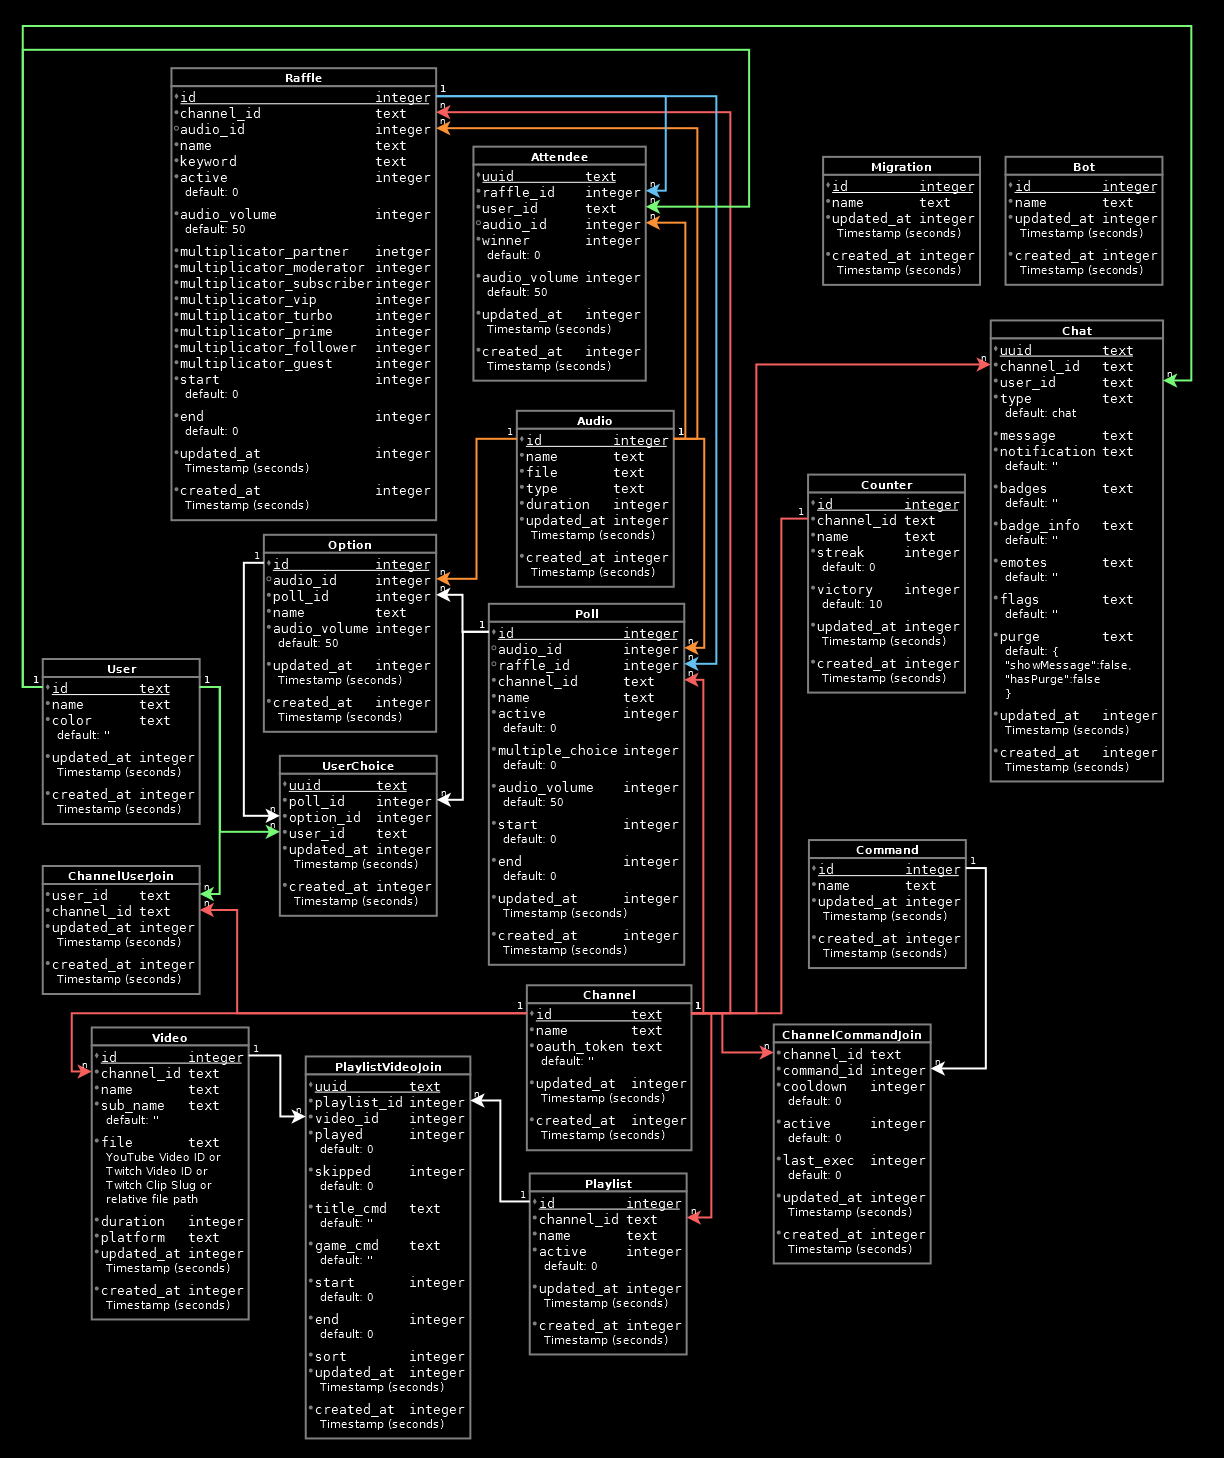
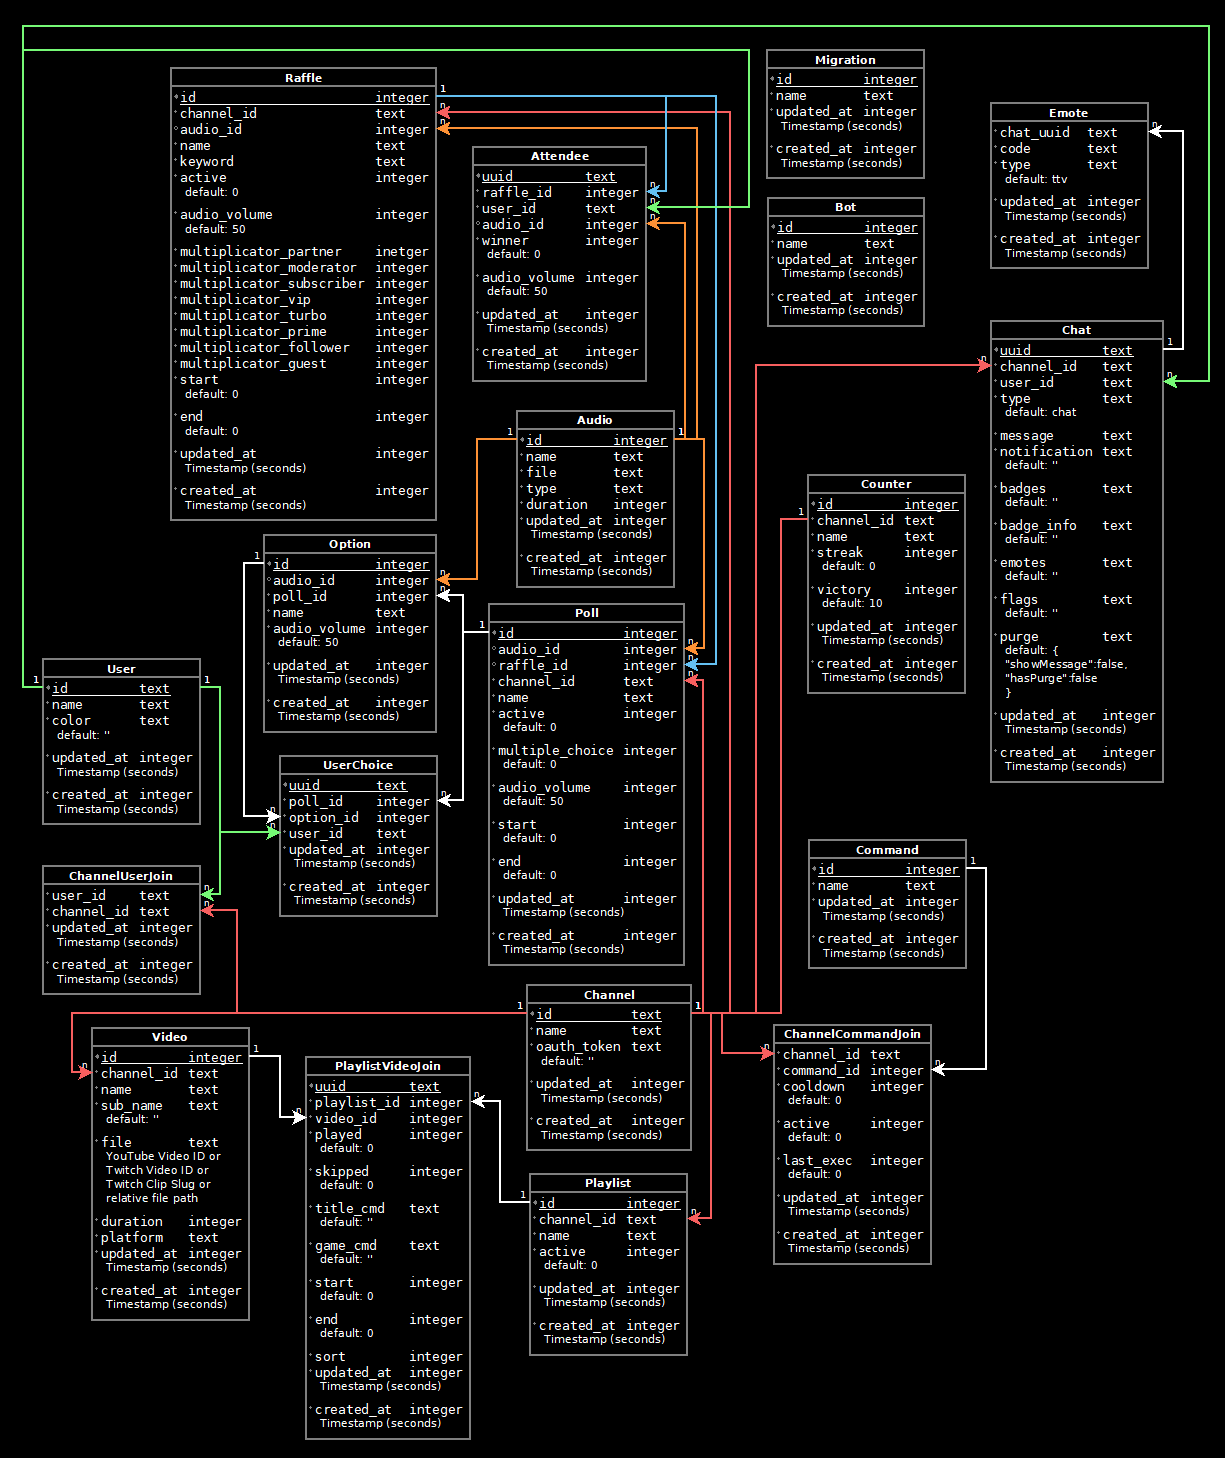
Added emote.js
Changed encodeBttvEmotes() in chatbot/chat.js
Changed encodeFfzEmotes() in chatbot/chat.js
Changed encodeTwitchEmotes() in chatbot/chat.js
Changed generateEmoteImage() in chatbot/chat.js
Changed data/chatbot.dist.sqlite3
Changed screenshots/data-model.dia
Changed screenshots/data-model.png
Changed prop drop in partial/langswitch.vue
Changed @babel/core 7.11.1 to 7.11.4
Changed i18next 19.6.3 to 19.7.0
Changed vanilla-lazyload 17.1.0 to 17.1.2
Changed vue 2.6.11 to 2.6.12

Fixed database-command-relation in chatbot/locales.js

Changed region(s): [[0.0, 0.0, 1.0, 1.0]]

diff --git a/src/js/chatbot/chat.js b/src/js/chatbot/chat.js
@@ -1,37 +1,66 @@
-const database     = require('./database');
-const linkify      = require('linkifyjs');
-const linkifyHtml  = require('linkifyjs/html');
-const moment       = require('moment');
-const request      = require('request');
-const {v4: uuidv4} = require('uuid');
-
-database.open();
+const database    = require('./database');
+const emote       = require('./emote');
+const linkify     = require('linkifyjs');
+const linkifyHtml = require('linkifyjs/html');
+const moment      = require('moment');
+const request     = require('request');
+const {v4: uuidv4, validate: uuidValid} = require('uuid');
 
 const chat = {
     bttvEmotes: {},
     ffzEmotes: {},
-    encodeBttvEmotes: function(message, channel) {
-        let emoteCodes = Object.keys(chat.bttvEmotes[channel]);
+    encodeBttvEmotes: function(message, args) {
+        let emoteCodes = Object.keys(chat.bttvEmotes[args.channel]);
         for (let i = 0; i < emoteCodes.length; i++) {
             let regex = new RegExp(emoteCodes[i], 'g');
-            message = message.replace(regex, chat.generateEmoteImage(chat.bttvEmotes[channel][emoteCodes[i]], emoteCodes[i]));
+
+            if (regex.test(message)) {
+                if (typeof args.uuid === 'string' && uuidValid(args.uuid)) {
+                    for (let j = 0; j < (message.match(regex) || []).length; j++) {
+                        let emoteArgs = {
+                            uuid: args.uuid,
+                            code: emoteCodes[i],
+                            type: 'bttv'
+                        };
+
+                        emote.addEmote(emoteArgs);
+                    }
+                }
+
+                message = message.replace(regex, chat.generateEmoteImage(chat.bttvEmotes[args.channel][emoteCodes[i]], emoteCodes[i]));
+            }
         }
         return message;
     },
-    encodeFfzEmotes: function(message, channel) {
-        let emoteCodes = Object.keys(chat.ffzEmotes[channel]);
+    encodeFfzEmotes: function(message, args) {
+        let emoteCodes = Object.keys(chat.ffzEmotes[args.channel]);
         for (let i = 0; i < emoteCodes.length; i++) {
             let regex = new RegExp(emoteCodes[i], 'g');
-            message = message.replace(regex, chat.generateEmoteImage(chat.ffzEmotes[channel][emoteCodes[i]], emoteCodes[i]));
+
+            if (regex.test(message)) {
+                if (typeof args.uuid === 'string' && uuidValid(args.uuid)) {
+                    for (let j = 0; j < (message.match(regex) || []).length; j++) {
+                        let emoteArgs = {
+                            uuid: args.uuid,
+                            code: emoteCodes[i],
+                            type: 'ffz'
+                        };
+
+                        emote.addEmote(emoteArgs);
+                    }
+                }
+
+                message = message.replace(regex, chat.generateEmoteImage(chat.ffzEmotes[args.channel][emoteCodes[i]], emoteCodes[i]));
+            }
         }
         return message;
     },
-    encodeTwitchEmotes: function(message, emotes) {
+    encodeTwitchEmotes: function(message, args) {
         let splitText = message.split('');
 
-        for (let i in emotes) {
-            if (Object.prototype.hasOwnProperty.call(emotes, i)) {
-                let emoteCodes = emotes[i];
+        for (let i in args.emotes ){
+            if (Object.prototype.hasOwnProperty.call(args.emotes, i)) {
+                let emoteCodes = args.emotes[i];
 
                 for (let j in emoteCodes) {
                     if (Object.prototype.hasOwnProperty.call(emoteCodes, j)) {
@@ -44,9 +73,19 @@ const chat = {
                             let empty = Array.apply(null, new Array(length + 1)).map(function() {
                                 return '';
                             });
-                            let emote = message.slice(emoteCode[0], emoteCode[1] + 1);
+                            let ttvEmote = message.slice(emoteCode[0], emoteCode[1] + 1);
                             splitText = splitText.slice(0, emoteCode[0]).concat(empty).concat(splitText.slice(emoteCode[1] + 1, splitText.length));
-                            splitText.splice(emoteCode[0], 1, chat.generateEmoteImage('http://static-cdn.jtvnw.net/emoticons/v1/' + i + '/1.0', emote));
+                            splitText.splice(emoteCode[0], 1, chat.generateEmoteImage('http://static-cdn.jtvnw.net/emoticons/v1/' + i + '/1.0', ttvEmote));
+                            
+                            if (typeof args.uuid === 'string' && uuidValid(args.uuid)) {
+                                let emoteArgs = {
+                                    uuid: args.uuid,
+                                    code: ttvEmote,
+                                    type: 'ttv'
+                                };
+
+                                emote.addEmote(emoteArgs);
+                            }
                         }
                     }
                 }
@@ -96,17 +135,17 @@ const chat = {
     },
     formatMessage: function(args) {
         let message = args.message;
-        message = chat.encodeTwitchEmotes(message, args.emotes);
-        message = chat.encodeBttvEmotes(message, args.channel);
-        message = chat.encodeFfzEmotes(message, args.channel);
+        message = chat.encodeTwitchEmotes(message, args);
+        message = chat.encodeBttvEmotes(message, args);
+        message = chat.encodeFfzEmotes(message, args);
         message = linkifyHtml(message, {
             defaultProtocol: 'https'
         });
 
         return message;
     },
-    generateEmoteImage: function(url, emote) {
-        return '<img class="emote lazy img-fluid" src="img/empty-emote.png" data-src="' + url + '"  data-toggle="tooltip" data-placement="top" title="' + emote + '">';
+    generateEmoteImage: function(url, title) {
+        return '<img class="emote lazy img-fluid" src="img/empty-emote.png" data-src="' + url + '"  data-toggle="tooltip" data-placement="top" title="' + title + '">';
     },
     getMessage: function(chatbot, args) {
         chat.prepareMessages(chatbot, args, true);
@@ -118,13 +157,14 @@ const chat = {
         };
 
         let formatMessage = {
+            uuid: typeof args.userstate.id === 'undefined' ? uuidv4() : args.userstate.id,
             channel: args.channel,
             emotes: args.userstate.emotes,
             message: args.message
         };
 
         let values = {
-            uuid: typeof args.userstate.id === 'undefined' ? uuidv4() : args.userstate.id,
+            uuid: formatMessage.uuid,
             badges: chat.formatBadges(chatbot, formatBadges),
             badgeInfo: formatBadges.badgeInfo === null || typeof formatBadges.badgeInfo === 'undefined' ? '' : formatBadges.badgeInfo,
             roomId: typeof args.userstate['room-id'] === 'undefined' ? '' : args.userstate['room-id'],

diff --git a/src/js/chatbot/locales.js b/src/js/chatbot/locales.js
@@ -24,7 +24,7 @@ const en = {
     'database-bot': '* Added "{{0}}" bot from BTTV to database',
     'database-channel': '* Added channel "{{0}}" to database',
     'database-command': '* Added {{0}} commands to database',
-    'database-command-relation': '* Added {{0}} command relations for "{{1}}" to database',
+    'database-command-relation': '* Added {{0}} commands relations for "{{1}}" to database',
     'database-counter': '* Added counter "General" for "{{0}}" to database',
     'database-playlist': '* Added playlist "General" for "{{0}}" to database',
     'down': 'Down',
@@ -117,7 +117,7 @@ const de = {
     'database-bot': '* Bot "{{0}}" von BTTV wurde zur Datenbank hinzugefügt',
     'database-channel': '* Kanal "{{0}}" wurde zur Datenbank hinzugefügt',
     'database-command': '* Befehl {{0}} wurde zur Datenbank hinzugefügt',
-    'database-command-relation': '* Befehls-Beziehung {{0}} für "{{1}}" wurde zur Datenbank hinzugefügt',
+    'database-command-relation': '* {{0}} Befehls-Beziehungen für "{{1}}" wurde zur Datenbank hinzugefügt',
     'database-counter': '* Zähler "General" für "{{0}}" wurde zur Datenbank hinzugefügt',
     'database-playlist': '* Playlist "General" für "{{0}}" wurde zur Datenbank hinzugefügt',
     'down': 'Unten',

diff --git a/src/js/chatbot/emote.js b/src/js/chatbot/emote.js
@@ -1,0 +1,19 @@
+const database = require('./database');
+const moment   = require('moment');
+
+const emote = {
+    addEmote: function(args) {
+        let time = moment().unix();
+        let values = {
+            chatUuid: args.uuid,
+            code: args.code,
+            type: args.type === null || typeof args.type === 'undefined' ? 'ttv' : args.type,
+            updatedAt: time,
+            createdAt: time
+        };
+
+        database.insert('emote', [values]);
+    }
+};
+
+module.exports = emote;

diff --git a/src/js/vue/component/partial/langswitch.vue b/src/js/vue/component/partial/langswitch.vue
@@ -8,7 +8,7 @@
         props: {
             drop: {
                 type: String,
-                default: 'dropup'
+                default: 'up'
             }
         },
         data: function() {
@@ -47,7 +47,7 @@
                 }, 250);
             },
             getButtonClass: function() {
-                return this.drop;
+                return 'drop' + this.drop;
             }
         }
     };

diff --git a/src/js/module/require-config.js b/src/js/module/require-config.js
@@ -3,7 +3,7 @@
 require = { // eslint-disable-line no-global-assign
     'baseUrl': '/',
     'paths': {
-        'vue': 'js/require/vue.js?v=2.6.11',
+        'vue': 'js/require/vue.js?v=2.6.12',
         'vue-router': 'js/require/vue-router.js?v=3.4.3',
         'vue-i18n': 'js/require/vue-i18n.js?v=8.21.0',
         'vue-ctk-date-time-picker': 'js/require/vue-ctk-date-time-picker.js?v=2.5.0',

diff --git a/src/js/vue/component/layout/default.vue b/src/js/vue/component/layout/default.vue
@@ -15,7 +15,7 @@
         <header>
             <div class="container">
                 <div class="form-row">
-                    <c-langswitch ref="langswitch" drop="dropdown"></c-langswitch>
+                    <c-langswitch ref="langswitch" drop="down"></c-langswitch>
                     <c-navigation ref="navigation"></c-navigation>
                 </div>
             </div>
